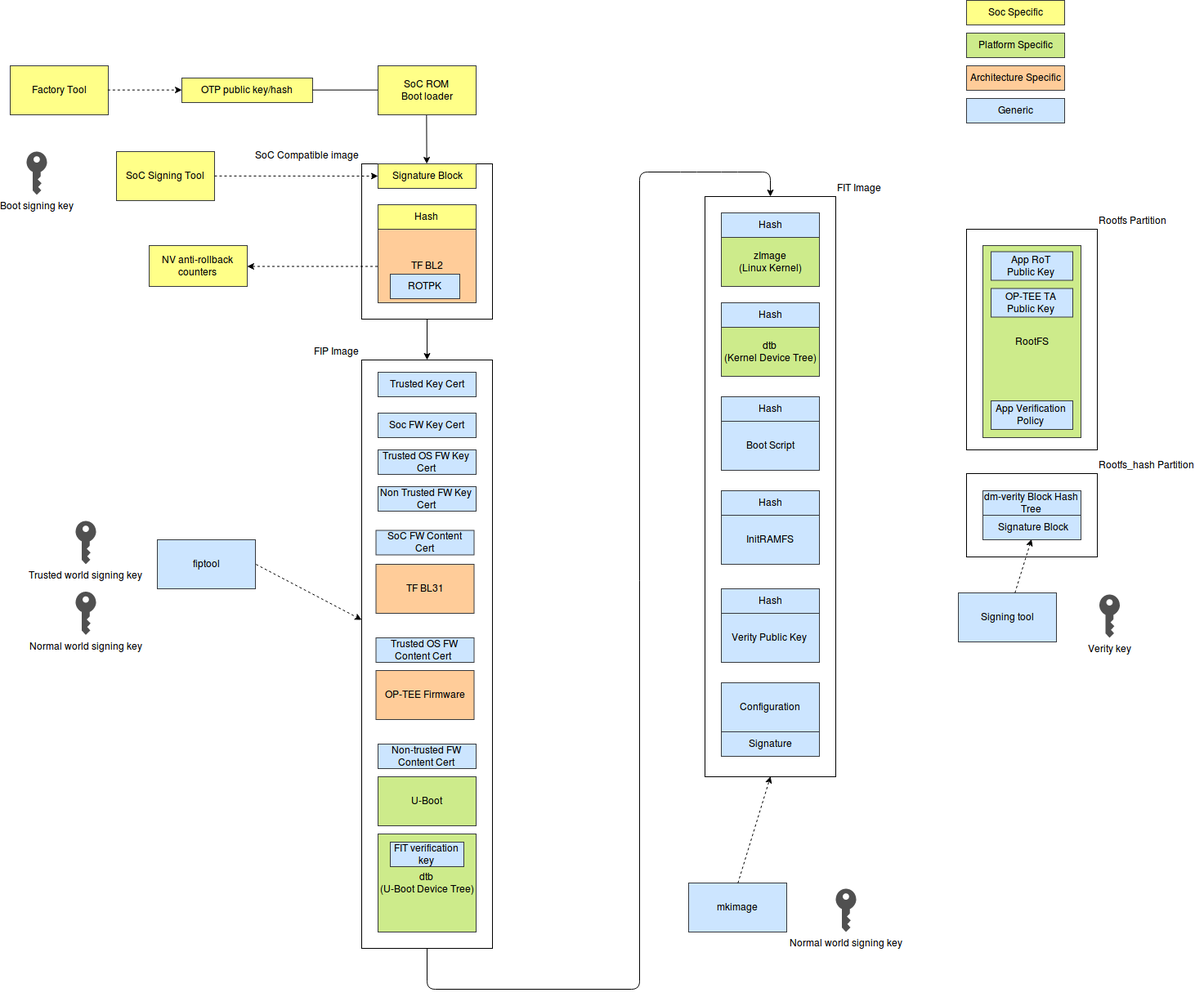
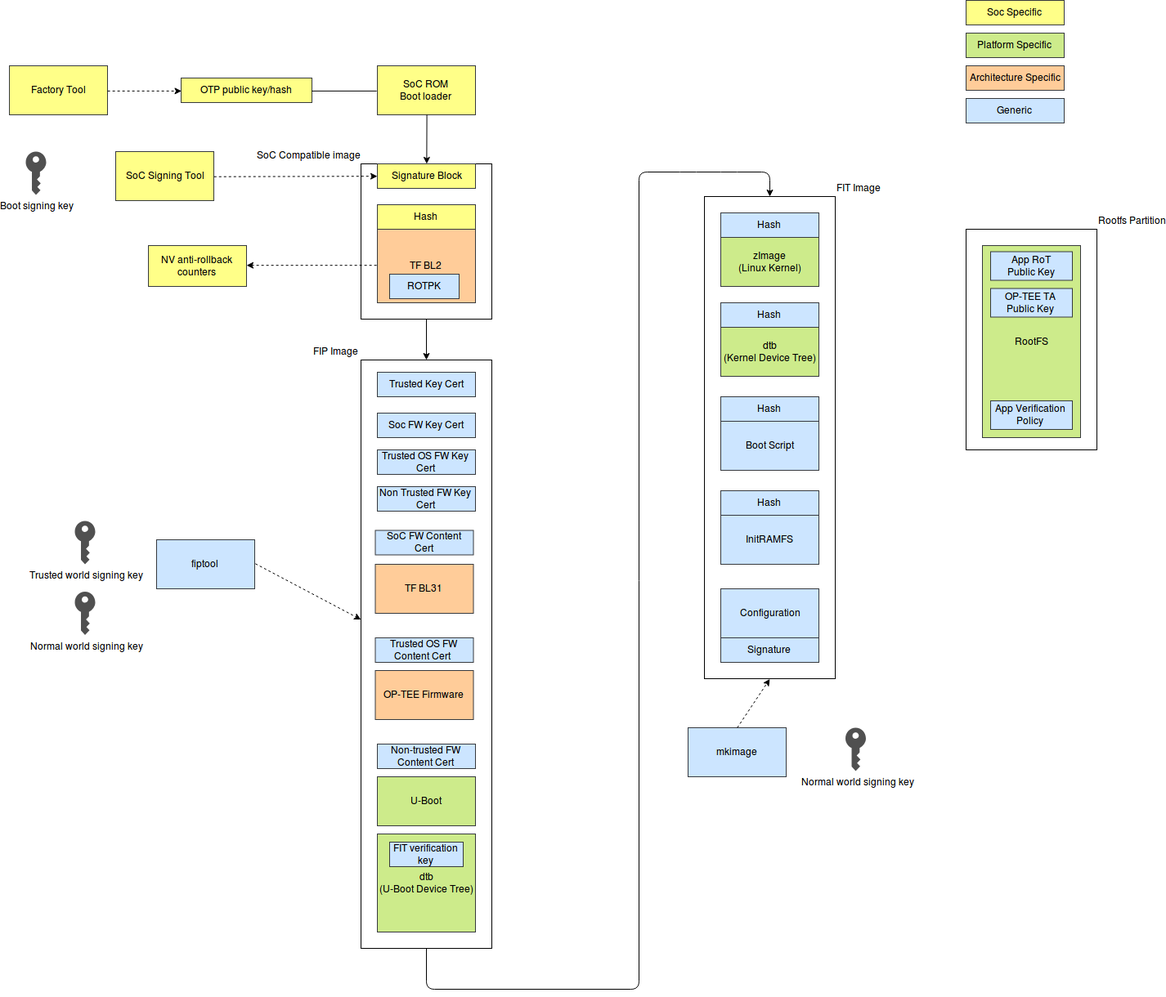
secure-boot.md: Move mbl-docs version to meta-mbl (#637)
secure-boot.md started to be updated for inclusion in mbl-docs but that
never got finished. Move the partially updated document back here, along
with some changes due to partitioning changes and removal of dm-verity.

For IOTMBL-531: Update website reference about partitions to match new
plans

diff --git a/docs/secure-boot.md b/docs/secure-boot.md
@@ -1,183 +1,180 @@
-## Secure boot and firmware verification requirements
+# Secure boot and firmware verification requirements
 
-Copyright © 2018 Arm Limited.
+Copyright © 2018-2019 Arm Limited.
 
-### Introduction
+This article provides information about the methodology Mbed Linux OS (MBL) uses to support secure boot and firmware updates, and assumes you are an experienced Linux developer. You may find it interesting if you are porting MBL to new hardware or contributing to its code base.
 
-The purpose of this document is to describe the requirements for the secure boot and firmware integrity verification of an Mbed Linux platform.  The goal of secure boot and any subsequent integrity verification is to ensure that a device will only run firmware from legitimate sources.  To protect high value data, the secure boot procedure aims to guarantee the integrity of the trusted execution environment by isolating it from possible vulnerabilities in other firmware components.  To reflect the different levels of trust confidence in the sources of different firmware components, signed components are grouped as follows:
+## Introduction
 
-The grouping by trust confidence is reflected in the chain-of-trust formed between boot components and their corresponding code signing authorities.
+This document describes the requirements for the secure boot and firmware integrity verification of an Mbed Linux OS platform. To protect high value data, the secure boot procedure and subsequent integrity verification ensure a device will only run firmware from legitimate sources. The secure boot procedure also guarantees the integrity of the trusted execution environment by isolating it from possible vulnerabilities in other firmware components. The verification of application container bundles is beyond the scope of this document.
 
-During the boot process, the following components should be verified:
+Boot components and their corresponding code signing authorities form a chain of trust, which reflects their grouping by levels of trust confidence. The boot process needs to verify the following components:
 
-*    Trusted world firmware and boot loaders used beyond the SoC ROM boot loader.
-*    The trusted execution environment (TEE) and associated secure applications.
-*    Normal world boot loaders.
-*    The Linux kernel.
+1. Trusted world firmware and boot loaders used beyond the SoC ROM boot loader.
+1. The trusted execution environment (TEE) and associated secure applications.
+1. Normal world boot loaders.
+1. The Linux kernel.
 
-Other software components shall also be verified, but not necessarily during the boot process.  To avoid significantly impacting boot time, software components held in the root file system or other mounted read-only file systems may be verified on-demand, as and when files are accessed.  The verification of application container bundles is beyond the scope of this document.
+The secure boot process must accommodate field updates for all firmware components, including trusted firmware, boot loaders and TEE, as individuals. Device operators will then define their own policy for what can and cannot be updated.
 
-The secure boot process must accommodate the field update of all firmware components, including trusted firmware, boot loaders and TEE.  The policy for what gets updated will be defined by device operators.  To support different update policies, the update solution should accommodate updating of individual components in a secure manner. 
+### Terminology
 
-Where possible, the boot process should use existing components such as Trusted Firmware, OP-TEE and U-Boot, configured in a way that requirements for security and reuse are met.  For a Linux distribution, it is highly desirable to use unmodified existing components wherever possible to exploit code maturity and familiarity by adopters.  This will require appropriate build configuration options to be selected to adapt the functionality of components such as U-Boot to meet requirements. 
+This document uses the following terminology:
 
-#### Terminology
-
-This section outlines the terminology used throughout the document:
-
-*    TF-A: Trusted Firmware - secure world software for Arm A class devices (REF7)
-*    DEK: Data Encryption Key
-*    FIT: Flattened Image Tree
-*    OTP: One Time Programmable
-*    PSA: Platform Security Architecture (REF8)
-*    SoC: System on Chip
-*    SPL: Secondary Program Loader (U-Boot)
-*    TEE: Trusted Execution Environment
-*    TPM: Trusted Platform Module
+* **TF-A**: Trusted Firmware - secure world software for Arm Cortex-A devices (REF7).
+* **DEK**: Data Encryption Key.
+* **FIT**: Flattened Image Tree.
+* **OTP**: One Time Programmable.
+* **PSA**: Platform Security Architecture (REF8).
+* **SoC**: System on Chip.
+* **SPL**: Secondary Program Loader (U-Boot).
+* **TEE**: Trusted Execution Environment.
+* **TPM**: Trusted Platform Module.
 
 
-#### References
+### References
 
 * REF2: Trusted Base System Architecture CLIENT2 (TBSA-CLIENT2), Document number: ARM DEN 0021A-6, Copyright ARM Limited 2011-2013
 * REF3: Trusted Board Boot Requirements CLIENT (TBBR-CLIENT), Document number: ARM DEN0006C-1, Copyright ARM Limited 2011-2015
-* REF4: mkimage tool source code: https://github.com/lentinj/u-boot/blob/master/tools/mkimage.c
-* REF5: Verified Boot documents: https://www.chromium.org/chromium-os/chromiumos-design-docs/verified-boot
-* REF6: Integrity Measurement Architecture: https://sourceforge.net/p/linux-ima/wiki/Home/
-* REF7: Trusted Firmware for Arm A class devices: https://www.trustedfirmware.org/index.html
-* REF8: Platform Security Architecture: https://developer.arm.com/products/architecture/security-architectures/platform-security-architecture
+* REF4: mkimage tool source code: [https://github.com/lentinj/u-boot/blob/master/tools/mkimage.c](https://github.com/lentinj/u-boot/blob/master/tools/mkimage.c)
+* REF5: Verified Boot documents: [https://www.chromium.org/chromium-os/chromiumos-design-docs/verified-boot](https://www.chromium.org/chromium-os/chromiumos-design-docs/verified-boot)
+* REF6: Integrity Measurement Architecture: [https://sourceforge.net/p/linux-ima/wiki/Home/](https://sourceforge.net/p/linux-ima/wiki/Home/)
+* REF7: Trusted Firmware for Arm Cortex-A class devices: [https://www.trustedfirmware.org/index.html](https://www.trustedfirmware.org/index.html)
+* REF8: Platform Security Architecture: [https://developer.arm.com/products/architecture/security-architectures/platform-security-architecture](https://developer.arm.com/products/architecture/security-architectures/platform-security-architecture)
 
 
-### Summary
+## Summary of requirements and recommendations
 
-This is a summary of the secure boot requirements for MBL:
+This is a summary of the MBL secure boot's requirements and recommendations:
 
-*    All booted images must be signed and verified using a chain of trust where an OTP programmed key forms the root of trust for the verification chain.
-*    Reuse of an existing solution is highly desirable.
-*    As much of the secure verification logic as possible should be common across supported platforms.
-*    Trusted Firmware provides a generic solution for booting and verifying trusted world firmware and the first normal world boot stage (U-Boot).
-*    U-Boot to verify the Linux kernel, device tree and normal world boot script using Verified Boot, as used in Chrome OS.
-*    The TEE must be initialized early on in the boot sequence to reduce the probability of its integrity being compromised.
-*    Boot time verification can be limited to verifying all steps up to and including the Linux Kernel.
-*    A flow for device firmware development must be provided.
-*    Development images should only be allowed to run on development devices.
-*    It must not be possible to run a development image on a production device.
+* For the boot process, we recommend using unmodified existing components (such as Trusted Firmware, OP-TEE and U-Boot) wherever possible, to exploit code maturity and familiarity by adopters. The boot process should use these components with build options that meet requirements for security and reuse.
+* All booted images must be signed and verified using a chain of trust. The root of trust key for the chain must be in OTP storage.
+* As much of the secure verification logic as possible should be common across supported platforms. This is explained in greater detail [later in this document](#platform-independent-boot-stage-verification).
+* Use Trusted Firmware to provide a generic solution for booting and verifying trusted world firmware and the first normal world boot stage (U-Boot).
+* Use U-Boot to verify the Linux kernel, device tree and normal world boot script using Verified Boot, as used in Chrome OS.
+* The TEE must be initialized early on in the boot sequence to reduce the probability of its integrity being compromised.
+* Boot time verification can be limited to verifying all steps up to and including the Linux Kernel. Other software components must also be verified, but not necessarily during the boot process; to avoid significantly impacting boot time, software components held in the root file system or other mounted read-only file systems may be verified on-demand (as and when files are accessed).
+* Only allow development images to run on development devices; it must not be possible to run a development image on a production device.
 
-### Trusted Firmware
+## Trusted Firmware
 
-Trusted Firmware provides a reference implementation for the secure boot of trusted world components, up to loading and verifying the first normal world boot loader.  Although developed for ARMv8-A architecture, build configuration options are supported for ARMv7-A.  Trusted Firmware meets the requirements specified in the Arm Trusted Boot Requirements specification (REF3) but with restrictions for ARMv7-A devices.
+[Trusted Firmware](https://www.trustedfirmware.org/index.html) provides a reference implementation for the secure boot of trusted world components, up to loading and verifying the first normal world boot loader. Trusted Firmware meets the requirements specified in the Arm Trusted Boot Requirements specification (REF3) but with restrictions for ARMv7-A devices (because it was developed for [the ARMv8-A architecture](https://www.trustedfirmware.org/about/)).
 
-### PSA Requirements
+## Aligning MBL with PSA requirements
 
-All design choices that are made for A class devices will be aligned to the goals of PSA.  Currently the following documents have been used:
+All MBL design choices will be aligned to the goals of PSA, based on:
 
-*    Trusted Base System Architecture CLIENT2 (TBSA-CLIENT2) (REF2)
-*    Trusted Board Boot Requirements CLIENT (TBBR-CLIENT) (REF3)
+* Trusted Base System Architecture CLIENT2 (TBSA-CLIENT2), Document number: ARM DEN 0021A-6, Copyright ARM Limited 2011-2013 (REF2)
+* Trusted Board Boot Requirements CLIENT (TBBR-CLIENT), Document number: ARM DEN0006C-1, Copyright ARM Limited 2011-2015 (REF3)
 
-These documents give guidance in the following areas for secure boot:
+These documents give guidance on the scope of the SoC Root of Trust key, and the boot sequence for trusted and normal world components.
 
-#### Scope of SoC Root of Trust Key
+### Scope of SoC Root of Trust key
 
-The root of trust key, used by the SoC boot ROM, should only be used for verifying the firmware loaded and run by the boot ROM.  The type and size of the key will be constrained by the SoC boot ROM capabilities.  For example, NXP support RSA key pairs of sizes (1K, 2K or 4K).  The signing authority is responsible for using an appropriate key size to meet longevity requirements.
+The Root of Trust (RoT) key, used by the SoC boot ROM, should only be used for verifying the firmware loaded and run by the boot ROM. Subsequent boot images should be verified using keys embedded either in the image of a previously loaded stage or in certificates held in secure storage. The scope of the SoC root of trust key should be restricted to verifying the first booted image, so that no other component used during the boot flow is dependent on any SoC-specific RoT key. Instead, for rollback protection, they must depend on SoC-specific NV counters stored in OTP.
 
-Subsequent boot images should be verified using keys embedded in the image of a previously loaded stage or in certificates held in secure storage.  The scope of the SoC root of trust key should be restricted to verifying the first booted image.
+The type and size of the key are constrained by the SoC boot ROM capabilities. For example, NXP support RSA key pairs of sizes 1K, 2K and 4K. The signing authority is responsible for using an appropriate key size to meet longevity requirements. We also recommend encrypting the first loaded image if the SoC can support that.
 
-It is also recommended that the first loaded image is encrypted.  This requirement will depend on SoC capabilities.
+### Trusted world components must be booted before Normal world components
 
-By limiting the scope of the SoC root of trust key to the verification performed by the ROM boot loader, no other component used during the boot flow is dependent on any SoC specific root of trust key.  Other boot components may depend on SoC specifc NV counters, stored in OTP, for rollback protection.
+To avoid the possibility of a Normal world component compromising a Trusted (or Secure) world component in some way, all Trusted world components must be booted before Normal world components. Also, to reduce the risk of unknown software running in secure mode, the size of any boot loader that runs in the secure state should be minimized. A boot flow that uses Trusted Firmware, OP-TEE and U-Boot will follow the illustrated sequence:
 
-#### Trusted World Components Should be Booted Before Normal World Components
+<span class="images">![](assets/TWC_before_NWC.png)</span>
 
-To avoid the possibility of a normal world component, in some way, compromising a trusted world component, all trusted world components shall be booted before normal world components.  Also, to reduce the risk of unknown software running in secure mode, the size of any boot loader that runs in the secure state should be minimized.  A boot flow that uses Trusted Firmware, OP-TEE and U-Boot would follow the illustrated sequence:
+## Platform-independent boot stage verification
 
-![fig1](assets/TWC_before_NWC.png)
+After loading and verifying the initial image, loaded by the SoC boot ROM, the boot logic and verification of subsequent steps in the boot process should be common across supported platforms. This achieves:
 
-### Platform Independent Boot Stage Verification
+* Minimal porting effort to new platforms.
+* A single image format that includes signature and key blocks for all supported platforms.
+* A common toolchain for image creation and signing (apart from the initial image loaded by the SoC boot ROM).
+* Uniform security across platforms (within hardware constraints).
 
-Beyond the loading and verification of the initial image, loaded by the SoC boot ROM, the boot logic and verification of subsequent steps in the boot process should be common across supported platforms.  This requirement is intended to achieve the following:
+Ideally, the boot stage verification code should be free of SoC dependencies to allow a default software-only implementation, which can then be used on different platforms. Different platforms can exploit hardware features only available on those platforms if they bring significant benefits - such as hardware crypto.
 
-*    Minimize porting effort to new platforms.
-*    Use a single image format that includes signature and key blocks for all supported platforms.
-*    Use a common toolchain for image creation and signing (apart from the initial image loaded by the SoC boot ROM).
-*    Achieve uniform security across platforms (within hardware constraints).
+## A generic flow using Trusted Firmware and U-Boot
 
-Ideally, the boot stage verification code should be free of SoC dependencies.  This will allow the same verification code to be used on different platforms.  There may be cases where hardware assistance is available to support cryptographic operations.  A choice may be made to exploit hardware features on certain platforms, if significant benefits can be achieved.  However, a software only implementation should be available to provide a default solution. 
+The boot sequence chains the following boot mechanisms:
 
-### A Generic Flow using Trusted Firmware and U-Boot
-
-The boot sequence will chain the following boot mechanisms:
-
-1.    SoC boot ROM loads, verifies and runs the first trusted world image (TF-A BL2)
-2.    TF-A loads, verifies and runs trusted world components, including OP-TEE.
-3.    TF-A verifies and loads U-Boot which loads, verifies and runs normal world components.
+1. **SoC boot ROM** loads, verifies and runs the first trusted world image (TF-A BL2).
+1. **TF-A** loads, verifies and runs trusted world components, including OP-TEE.
+1. **TF-A** verifies and loads U-Boot.
+1. **U-Boot** loads, verifies and runs normal world components.
 
 The following diagram illustrates the chaining of the secure boot steps:
 
-![fig2](assets/Flow_using_TF_uboot.png)
+<span class="images">![](assets/Flow_using_TF_uboot.png)</span>
 
-#### Trusted World Boot
+### Secure world boot
 
-Booting of trusted world components will be performed by Trusted Firmware.  Beyond the initial boot performed by the ROM boot loader, TF-A performs boot steps BL2, BL31, BL32 and BL33.  Prior to entering BL33, the switch from secure to non-secure execution mode is made.  All trusted components (e.g. OP-TEE) will have been initialised, prior to the mode switch.  BL33 will be U-Boot for MBL.
+Booting of trusted boot components is performed by Trusted Firmware. After the ROM boot loader performs the initial boot, TF-A performs boot steps BL2, BL31, BL32 and BL33 (in the above diagram). The switch from secure to non-secure execution mode on the CPU is done *before* entering BL33, when all trusted components (like OP-TEE) have already been initialised. For MBL, BL33 is U-Boot.
 
-#### Normal World Boot
+### Normal world boot
 
-Booting of normal world components will be performed by U-Boot.  U-Boot is a bootloader intended for embedded devices and is most commonly used to boot the Linux kernel.  It includes many configuration options to support different boot requirements.  MBL will use the Verified Boot option to provide a common boot solution for normal world firmware.
+Booting of normal world components is performed by U-Boot, a boot loader for embedded devices most commonly used to boot the Linux kernel. Its many configuration options support different boot requirements, and MBL uses the **Verified Boot** option to provide a common boot solution for normal world firmware.
 
-##### Verified Boot
+#### Verified Boot
 
-One secure boot option supported by U-Boot is called Verified Boot.  Verified Boot is a term used in Chrome OS.  It covers the secure boot and user-space integrity checking features used in Chrome OS.  Verified Boot features have been mainlined into U-Boot and can be optionally enabled using a suitable build configuration.  Verified Boot is a generic secure boot mechanism that can be used for embedded devices.
+U-Boot supports **Verified Boot**, a generic secure boot mechanism that can be used for embedded devices. The term is used in Chrome OS to refer to its secure boot and user-space integrity checking features. Verified Boot features have been mainlined into U-Boot, and you can enable them with a build configuration.
 
-Signing key pairs can be created using openSSL.
+Verified Boot features:
 
-Features of Verified Boot are:
+* Uses the FIT format. FIT files can contain:
+    * A signed image hash.
+    * Public keys used for verifying subsequent boot stages.
 
-* Uses FIT format.
-* FIT files can contain signed image hash.
-* FIT files can contain public keys used for verifying later boot stages.
-* Images are signed using generic mkimage tool (REF4)
-* The Verified Boot build configuration depends on the Vboot library.  Vboot library provides (REF5)
-  * Hashing
-  * RSA signature checking
-  * Verified boot flow logic
-  * TPM (Trusted Platform Module) library - used for roll-back protection
+    <span class="tips">You can use OpenSSL to create keys for use in verified boot.</span>.
+* Images are signed using the generic mkimage tool (REF4).
+* The Verified Boot build configuration depends on the Vboot library (REF5), which provides:
+  * Hashing.
+  * RSA signature checking.
+  * The code to validate the verified boot components.
+  * The Trusted Platform Module (TPM) library used for roll-back protection.
 
-An IoT device is unlikely to include TPM hardware.  Instead, any TPM services used during secure boot will need to be provided by a trusted application running in the TEE.  A trusted application could provide roll-back protection, equivalent to the TPM service, using one of the following platform specific options:
+An IoT device is unlikely to include TPM hardware; it will instead rely on a trusted application running in the TEE for any TPM services used during secure boot. A trusted application can provide roll-back protection, equivalent to the TPM service, using one of the following platform-specific options:
 
-*    On-chip counters based on OTP fuses
-*    If the storage is based on eMMC then use the Replay Protected Memory Block (RPMB) whereby the access key used is a key only accessible by the secure side (e.g. based on an SoC secret) 
-*    Emulated within secure on-chip embedded NVM (securely managed by the Trusted OS) 
-*    Secure flash (accessible to secure only) protected by a derived key from the DEK (authenticated encryption).
-*    In future SoCs ARM's CryptoCell/Island products will also provide a facility for roll-back protection. 
+* On-chip counters based on OTP fuses.
+* If the storage is based on eMMC: use the Replay Protected Memory Block (RPMB), where the access key is only accessible to the secure side (for example, based on an SoC secret).
+* Emulated within secure on-chip embedded NVM (securely managed by the Trusted OS).
+* Secure flash (accessible through Secure world only), protected by a derived key from the DEK (authenticated encryption).
+* In future SoCs, ARM's CryptoCell/Island products will also provide a facility for roll-back protection.
 
-These will require the Trusted OS to have an application interface for providing the counter values and increasing them.
+For all of these, the trusted application must have an application interface through which it can provide and increase counter values.
 
-### Integrity Checking
+## Image signing
 
-The boot flow described above provides secure verification of all components in the boot chain, up to and including the Linux kernel.  It does not verify the read-only root file system or any other mounted file system that may hold executables or configuration data.  An additional solution will be required to check the integrity of read-only files.
+<!--to do: crosslink to image signing when it's published-->
 
-The following diagram illustrates how image signing tools are used to sign different boot components:
+The following diagram illustrates how image signing tools sign different boot components:
 
-![fig3](assets/Image_signing_flow.png)
+<span class="images">![](assets/Image_signing_flow.png)</span>
 
+1. A factory tool writes the Root of Trust key into OTP storage.
+1. The trusted boot flow's RoT key is added to the second stage boot - TF-A BL2.
+1. An SoC signing tool signs the RoT key.
+1. The fiptool that is provided by Trusted Firmware populates the keys into the FIP image for the trusted boot components.
+1. The image is signed using the trusted boot flow RoT key.
+1. mkimage adds the keys for the normal world components to the FIP image, and the components are signed using the keys from the FIP image.
+1. The root file system (rootfs) contains the keys for the IoT applications and TEE applications.
 
-### Operation on Open and Closed Devices
+## Operation on open and closed devices
 
-A SoC will provide OTP hardware that determines the 'open' or 'closed' state of a device where:
+An SoC provides OTP hardware that determines the 'open' or 'closed' state of a device:
 
-*    Open: boot_mode=open means that if authentication of a boot chain component fails, an authentication failure event is logged but the boot process continues.
-*    Closed: boot_mode=closed means that if authentication of a boot chain component fails, the boot process is halted (or perhaps put into a recovery mode).
+* Open: `boot_mode=open` means that if authentication of a boot chain component fails, an authentication failure event is logged but the boot process continues.
+* Closed: `boot_mode=closed` means that if authentication of a boot chain component fails, the boot process is halted (or put into a recovery mode, at the hardware vendor's choosing).
 
-After completing manufacturing steps, a production device should be in the closed state.  A production device should also have the following functionality disabled:
+At the end of the manufacturing process, a production device should be in the close state. It should also have have the following functionality disabled:
 
-*    Serial console
-*    Debug access via network e.g. via ssh
-*    Debug and trace functions
-*    JTAG
+* Serial console.
+* Debug access over network, for example using SSH.
+* Debug and trace functions.
+* JTAG.
 
-Mbed Linux should only support signed boot images for all boot steps beyond the initial step performed by the Soc ROM bootloader, independent of whether the device is open or closed. Unsigned images are not supported which:
+Beyond the initial step performed by the Soc ROM boot loader, Mbed Linux OS only supports signed boot images, independent of whether the device is open or closed. Not supporting unsigned images means:
 
-*    reduces implementation effort.
-*    reduces the test burden, while supporting easy developer project on-boarding.
-*    reduces the software attack surface, increasing security of the software.
+* Reduced implementation effort.
+* Reduced test burden, while supporting easy developer project on-boarding.
+* Reduced software attack surface, and therefore increased software security.
 
-To support firmware development on an open device, the build process should automatically sign images using one or more developer keys.  The image containing SPL can also be signed using the SoC signing tool but this is not necessary.  When producing a release build, images will need to be signed by a trusted firmware supplier.
-
+To support firmware development on an open device, the build process will automatically sign images using one or more developer keys. You can use the SoC signing tools to sign the image containing secondary boot - TF-A BL2. When producing a release build, images must be signed by a trusted firmware supplier.
